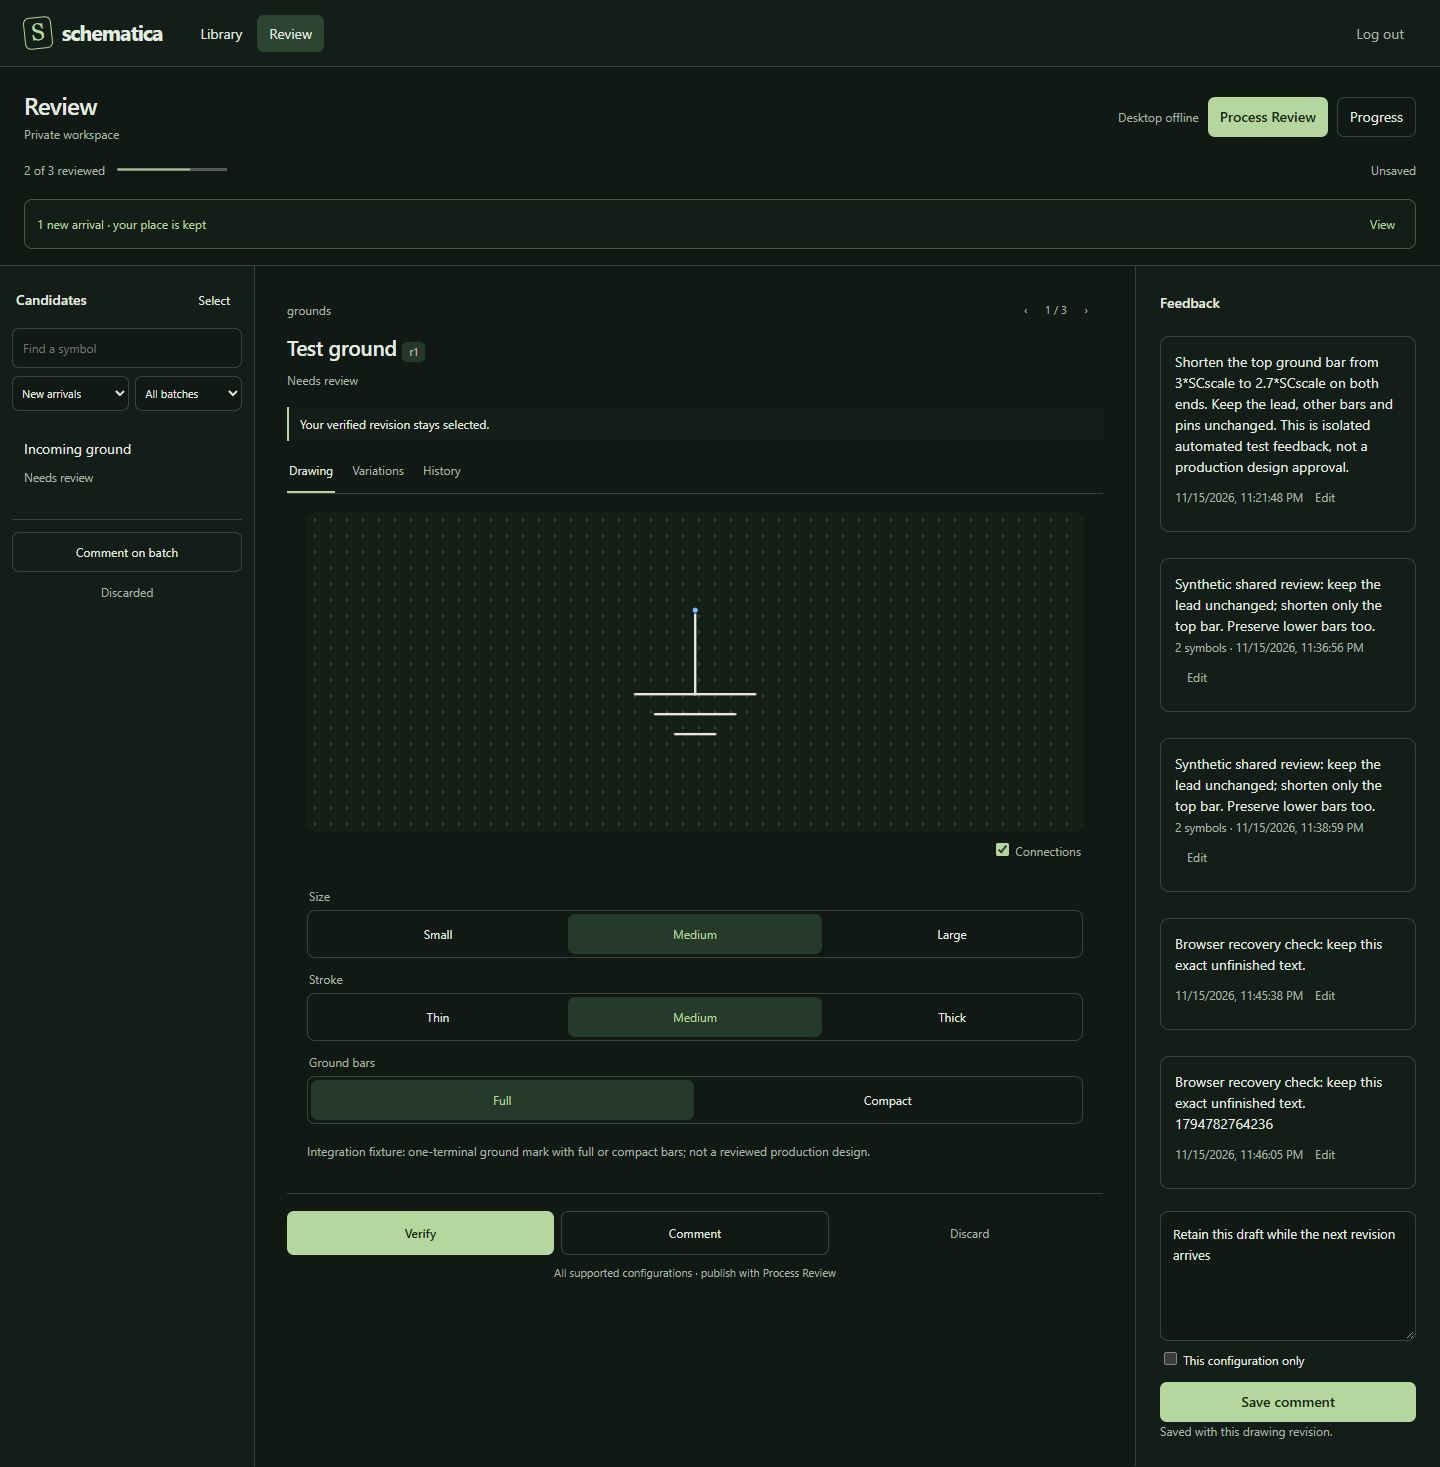
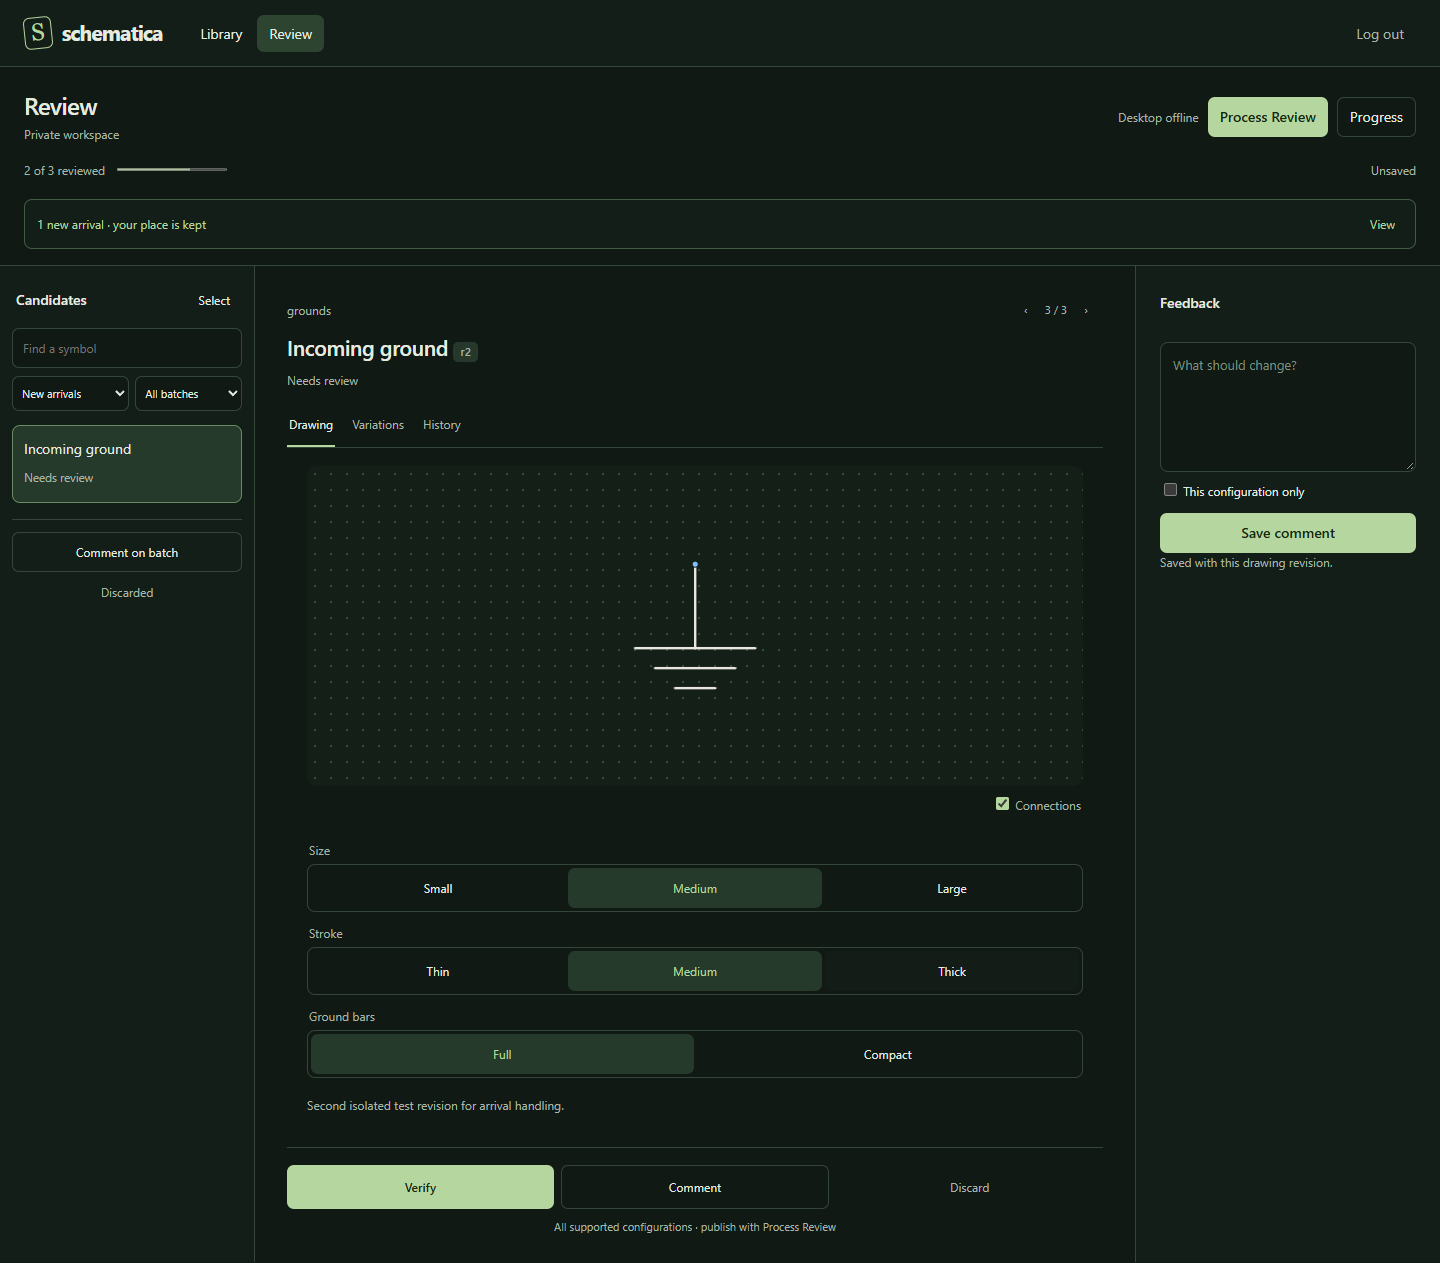
Document verified hosted Review delivery and Windows operation

diff --git a/context/CURRENT.md b/context/CURRENT.md
@@ -1,65 +1,78 @@
 # Current status
 
-15-11-2026 · **Review implementation: final validation and production delivery in progress.**
+16-11-2026 · **Schematica Review is deployed and the desktop connector is running.**
+
+[Library](https://schematica-preview.dinodubroja.workers.dev/)
+· [Private Review](https://schematica-preview.dinodubroja.workers.dev/review)
+· [Using Review](../docs/REVIEW.md)
+· [Setup, API and recovery](../docs/REVIEW_SETUP.md)
 
 ## Current work
 
-The user authorized complete hosted Review, desktop setup, tests, documentation,
-normal Git publication and deployment. Agent B implements in the isolated
-`feat/review` worktree. Agent A supplied exact ready commit
-`5efa3a806c942f1cc49d51ed060e58f83aeca1ba` and delegated this delivery's integration
-and publication coordination. Its host runtime, saved band-pass symbol, unsaved
-ADC draft and unrelated `docs/research` remain untouched.
+The authorized Review delivery is complete. It adds persistent private feedback,
+exact-revision decisions, Variations, History, recoverable discard, explicit proposal
+approval, subscription-authenticated desktop correction jobs and atomic publication.
+The public Library retains its presentation and exports; verification lives in Review.
 
-[Using Review](../docs/REVIEW.md) · [Setup/API/recovery](../docs/REVIEW_SETUP.md)
-· [Library](https://schematica-preview.dinodubroja.workers.dev/)
-· [Review](https://schematica-preview.dinodubroja.workers.dev/review)
+**91 published / 91 Verified / 0 Unverified**, with all **1,035 configurations** and
+36 library exports preserved. Production has no test candidates. Its Review queue is
+empty until an agent submits a real candidate; accepted symbols are already published.
 
-## Implemented
+## Tested delivery
 
-- Password-protected Review, central D1 storage, remembered sessions and logout.
-- Exact revision verification, comments and edits, explicit shared targets,
-  recoverable discard, Variations, History comparison and cross-device progress.
-- Durable desktop jobs, stale-proposal checks, explicit correction approval,
-  subscription-authenticated Codex execution and immediate corrected uploads.
-- Atomic published catalog/assets, real Library retrieval confirmation and
-  source/artwork receipts independent of application deployments.
-- Private immutable source, drawing, feedback, proposal and decision evidence;
-  portable backup with checksum-verified recovery.
-- Public Library retains its design and exports, with verification controls moved
-  to Review. No new production symbols or geometry changes.
+| Receipt | Result |
+|---|---|
+| Product source | `72d128797d765e64dbfe999e3de200646e22cc4d` |
+| Build | `826fc3ddf903` |
+| Production Worker version | `a05fe7ce-32ca-427e-9ce1-6f9dbe433bf8` |
+| GitHub delivery | `feat/review` and `main`; this receipt accompanies the final documentation commit |
+| Production migration | 91 exact historical fingerprints; 2,070 private artwork/fragment assets; migration switch closed |
+| Source checks | 81 Python and 26 JavaScript tests passed; documentation links checked |
+| Hosted file checks | 1,079 public file hashes matched, including every accepted drawing and library export |
+| Desktop | ChatGPT subscription authenticated; Check, Start, repeat Start, Stop and restart passed |
 
-## Validation evidence so far
+## Workflow evidence
 
-- Existing suite: **78 Python tests, 25 JavaScript tests** passed. Three new Python
-  packaging/recovery tests also pass; the complete combined rerun is pending.
-- Hosted validation: nine grouped checks passed, using two independent authenticated
-  sessions. Includes shared feedback/edits, exact revision selection, discard,
-  stale proposals, job exclusion, server authentication and complete-library exports.
-- Real ChatGPT-subscription correction: a synthetic ground fixture changed only
-  its approved top bar, rendered all 18 configurations, passed visual readiness,
-  returned unverified, then published the exact selected revision on validation.
-  Original feedback, before/after drawings, source diff and approvals remain retrievable.
-- Browser: 13 focused interaction checks passed, including phone-size independent
-  session, History, Variations, failed-save/reload draft retention and Undo.
-  A live new upload preserved the selected drawing and unfinished text; notification
-  count repair awaits its final targeted check.
-- Backup: restored into a fresh local SQLite database; all rows matched and all
-  2,179 asset hashes were verified. This is a recovery-format check, not a Cloudflare
-  disaster-recovery exercise or physical-device test.
+- Nine hosted validation groups passed with independent authenticated sessions:
+  comments/edits/shared targets, exact revision selection, discard/restore, stale
+  proposals, duplicate requests/uploads, access protection, exports and evidence.
+- A real subscription-backed correction changed one synthetic ground bar, rendered
+  all 18 supported configurations, passed visual readiness and returned unverified.
+  The separately approved test revision then published exactly; every returned
+  public SVG matched. Original feedback, drawings, source diff and decisions remain.
+- Thirteen browser interaction checks passed, including failed-save/reload draft
+  retention, History comparison, Undo and independent phone-size sessions.
+  A live arrival preserved the selected drawing and unfinished comment.
+- An abandoned hosted job lease expired and was reclaimed once, with a new lease
+  and incremented attempt count. Local connector stop/restart also passed.
+- Production login and Library search, Small/Thick, light mode, Variations and both
+  real browser downloads passed. Downloads matched the accepted files byte for byte.
+- Validation backup restored into fresh local SQLite: all rows and 2,179 asset
+  hashes matched. Production backup is consistent and checksummed: 91 revisions,
+  2,070 assets. This is not a live Cloudflare disaster-recovery exercise.
 
-All synthetic approvals belong to the separate validation database. They are not
-human acceptance of production artwork. The 91 accepted production designs,
-1,035 configurations and existing approval ledger remain unchanged.
+All synthetic decisions belong to the separate validation database. They are not
+human acceptance of production artwork. Review does not turn comments into rules.
 
-## Remaining delivery checks
+## Desktop operation
 
-Production deployment/migration, final source/host checks, desktop start/stop,
-documentation screenshots and Git/main publication remain in progress. This status
-must be updated with actual commit, build and deployment receipts before completion.
+The implementation runs from the isolated `Local/review-implementation` checkout.
+This desktop's `Local/review-desktop` folder has **Start Review**, **Stop Review**
+and **Status Review** shortcuts. Start it again after Windows restarts. The one-time
+password is in the private local `Review access.txt`; it is not in Git. Other devices
+need only the Review link and password, never the desktop token.
 
-Physical phone and second Windows device testing remains unperformed. Agent A's
-existing host limitations remain: Claude embedded download/creation retests,
+Agent B integrated A's exact ready `5efa3a8` under the delegated publication scope.
+The canonical checkout and A's active runtime/store, saved band-pass symbol, unsaved
+ADC draft, port 8793 and unrelated `docs/research` remain untouched.
+
+## Remaining checks and limits
+
+Physical phone and second Windows device testing remain user checks. Use the short
+[action → expected result checklist](../DEVELOPMENT.md#test-on-both-windows-devices)
+once a real candidate is submitted. Processing needs this desktop online; reviewing
+and saving feedback do not.
+
+A's separate host limitations remain: Claude embedded download/creation retests,
 fresh-chat retrieval, general text-font export and refinement terminal movement.
-See [host evidence](../docs/HOST_VERIFICATION.md). Review does not publish A's test
-symbols or turn comments into active design rules.
+See [host evidence](../docs/HOST_VERIFICATION.md). No A test symbols were promoted.

diff --git a/DEVELOPMENT.md b/DEVELOPMENT.md
@@ -162,7 +162,10 @@ schematica/
 │   ├── package.py          # Generate distributable ZIPs
 │   ├── launch.ps1          # Windows entry point
 │   ├── server.py           # Local static server
-│   └── wrangler.jsonc      # Cloudflare static-asset settings
+│   ├── review/             # Private Review and hosted storage API
+│   ├── review_client.py     # Candidate submission and evidence export
+│   ├── review_desktop.py    # Subscription-backed desktop processing
+│   └── wrangler.jsonc      # Worker, assets and database binding
 ├── tests/                  # Automated checks, render checks and fixtures
 ├── docs/                   # Inkscape, roadmap and documentation images
 └── context/                # Current status and new-project decisions
@@ -181,22 +184,24 @@ schematica/
 
 The viewer reads pre-rendered SVGs and a catalog. It never compiles TeX. The static
 builder copies the accepted artwork, reads current editorial metadata and creates
-36 complete-library exports. The website contains 1082 files, with no Python, source
-TeX, references or test material. Its content hashes determine `build.json`.
+36 complete-library exports. The build contains 1085 asset files; the Worker gates
+private Review assets and serves published revisions from D1. No private source or
+credentials are in the assets. Asset and server-source hashes determine `build.json`.
 
 ## Test and review
 
 Run from the repository root. Node.js **20 or newer** is needed only for the
-browser-state tests; the app itself has no Node dependency.
+JavaScript checks. Local Library browsing needs only Python; hosted Review runs
+on the Cloudflare Worker with D1.
 
 ```powershell
 .\.venv\Scripts\python.exe -m unittest discover -s tests -v
-node --test tests\review.test.cjs tests\configurations.test.cjs tests\host.test.cjs
+node --test tests/*.test.cjs tests/*.test.mjs
 .\.venv\Scripts\python.exe app\build_site.py
 .\.venv\Scripts\python.exe tests\check_docs.py
 ```
 
-Expect **77 Python tests and 11 JavaScript tests**, a **1082-file** website, and no
+Expect **81 Python tests and 26 JavaScript tests**, **1085 built assets**, and no
 broken documentation links. Tests cover all designs/configurations, accepted SVG
 bytes, pins, independent strokes, editable parts, exports, HTTP boundaries and
 approval validity. Compare `app/dist/build.json` with the hosted `build.json` when
@@ -204,16 +209,14 @@ checking that both devices have the same version.
 
 | Action | Expected result |
 |---|---|
-| Open the app; switch All symbols / Unverified | 91 designs, all Verified; Unverified is empty |
+| Open Library | 91 published designs; verification controls are in private Review |
 | Choose Resistors / Batch 01; search `NTC`, then `zzzz`, then clear | Two NTCs; empty state; the filtered batch returns |
 | Select Variable resistor · US; open Variations | Stroke, Size and Arrow orientation rows; one setting varies per row, all others at defaults; no large preview |
 | Choose Small / Thick / Down-left; open Variations | Comparison rows still use defaults, independently of the main preview selection |
 | Try all orientations on variable/trimmer US/EU | Only the diagonal marking reflects; body, leads and blue pin identities stay fixed |
 | Inspect potentiometers, NTC/PTC, photos and nonlinear resistors | Wiper tip centered 1 mm above body; labels readable; arrows symmetric; diagonal S has no arrowhead; no varistors |
-| In an isolated test library, check an Unverified design; reload | Pending in this browser; selection and exact design identity persist |
-| In that test library, Verify & next, then Undo | Selects the next unreviewed design; Undo reverses the pending selection |
-| Copy approvals or Copy symbol reference | Approval JSON includes exact revision/fingerprint; reference includes name/ID/revision/link |
-| Open the reference link in another browser | Same design selected; local approvals are not transferred |
+| Copy symbol reference | Reference includes name/ID/revision/link |
+| Open the reference link in another browser | Same published design selected |
 | Switch dark/light; reload; use Small/Thick and Grid & pins | Theme persists; stroke changes keep pins fixed; preview aids toggle together |
 | Export Small/Thick/Down-left variable resistor, then the library while filtered | Single matches the selected marking; library has all 91 designs and Down-left on its 8 adjustable designs |
 | Select a coil; export the library | Orientation controls disappear; adjustable designs in the library use Up-right |
@@ -224,7 +227,8 @@ checking that both devices have the same version.
 Repeat on both Windows devices using the [shared preview](https://schematica-preview.dinodubroja.workers.dev/).
 Record device/browser, build ID, design reference, selected preset, failed action
 and actual result. See [Inkscape](docs/INKSCAPE.md) for export/grid details and
-[verification](docs/VERIFICATION.md) for approval handoff and clipboard fallback.
+[Review](docs/REVIEW.md) for hosted decisions. The older
+[verification handoff](docs/VERIFICATION.md) remains available for explicit chat-led batches.
 
 ## Render and verify geometry
 
@@ -300,7 +304,7 @@ Creates `app/build/exports/` with a hash manifest and three ZIPs:
 
 | Package | Contents |
 |---|---|
-| `web-preview.zip` | 1082 static website files, ready for Cloudflare upload |
+| `web-preview.zip` | 1085 built assets; hosted Review also requires its Worker and D1 binding |
 | `all-symbols.zip` | 1035 individual SVGs |
 | `tex-bundles.zip` | 1035 standalone configurations, each with `symbol.tex` and required helpers |
 
@@ -328,7 +332,8 @@ option values are rejected. `exports.export(kind, keys, columns=3, spacing=6)` s
 
 ## Hosting and documentation previews
 
-The shared preview is a separate static deployment; Git pushes do not deploy it.
+The shared preview is a separate Worker deployment with assets and D1; Git pushes
+do not deploy it. Follow [Review setup](docs/REVIEW_SETUP.md) for storage and secrets.
 Prefer [Wrangler](https://developers.cloudflare.com/workers/wrangler/commands/general/)
 for authorized publications. Build once, deploy, then compare the hosted `build.json`,
 catalog and downloads against the local build. Routine publishing needs no automated
@@ -346,7 +351,7 @@ node ..\Local\tools\cloudflare\wrangler\node_modules\wrangler\bin\wrangler.js de
 On another publishing workstation, install Node.js 22.12 or newer with npm, then:
 
 ```powershell
-npx wrangler@4.162.0 login --use-keyring --scopes account:read user:read workers:write workers_scripts:write
+npx wrangler@4.162.0 login --use-keyring --scopes account:read user:read workers:write workers_scripts:write d1:write
 npx wrangler@4.162.0 deploy --config app\wrangler.jsonc
 ```
 

diff --git a/docs/ROADMAP.md b/docs/ROADMAP.md
@@ -18,7 +18,7 @@ This page states desired capabilities; implementation status comes from
 | Create symbols interactively with an agent | Local prototype · host checks pending | Create one symbol from text plus PNG/JPEG/WebP photos, screenshots or sketches (PDF needs host conversion): interpret → confirm → create → preview/refine → offer download/save to the dev library; shares formats and checks with batches |
 | Search and reuse symbols through agent apps | Local prototype · host checks pending | Separate search skill; shared interactive web/chat viewer with filtered results, configuration controls and an explicit selection handoff |
 | Connect Schematica through MCP | Local protocol verified · hosts pending | Required: ChatGPT Desktop across its environments and Claude Desktop; verify each complete journey, including previews, downloads and fresh-chat retrieval |
-| Review and process the dev library across devices | Implemented; final hosted delivery checks in progress | Private shared feedback, exact-revision verification, proposal approval, desktop correction jobs and independent symbol publication; [Review guide](REVIEW.md) |
+| Review and process the dev library across devices | Hosted and desktop workflow verified · physical-device checks pending | Private shared feedback, exact-revision verification, proposal approval, desktop correction jobs and independent symbol publication; [Review guide](REVIEW.md) |
 | Select the first default library | Planned · not released | Review material from the dev library for the first Schematica default library |
 | Personal libraries alongside supplied originals | Deferred from the immediate prototype | Later sign-in, account-linked preferences/designs and separate personal variants; admin privileges for supplied originals |
 | Schematic styles and examples in the library | Future · deferred | Browse styles and visible references with captions, including mixed circuits/plots/equations; compare symbols in circuits and test style generalization on realistic examples |

diff --git a/docs/REVIEW_SETUP.md b/docs/REVIEW_SETUP.md
@@ -156,7 +156,7 @@ seven days of Time Travel on the free plan. Test recovery before depending on it
 
 ```powershell
 python -m unittest discover -s tests -p "test_*.py"
-node --test tests/*.test.cjs tests/review-domain.test.mjs
+node --test tests/*.test.cjs tests/*.test.mjs
 python tests\check_docs.py
 python tests\verify_review_hosted.py --config C:\private\validation.json --output C:\private\validation-checks
 ```
